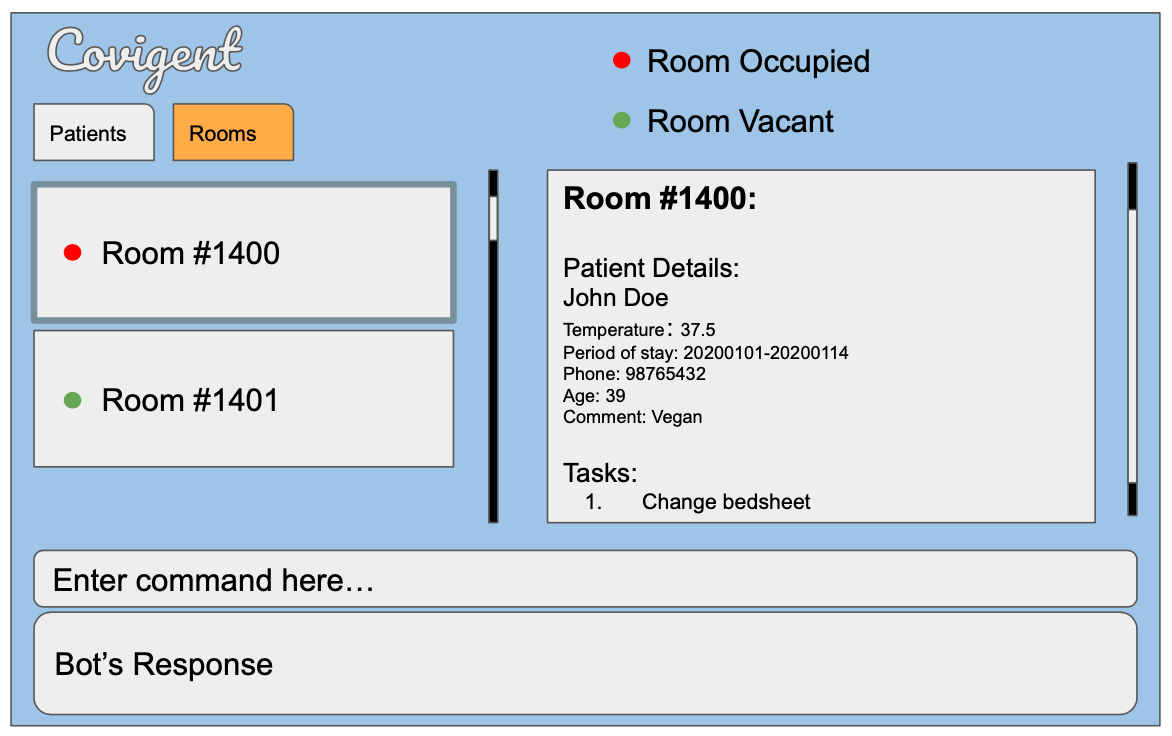
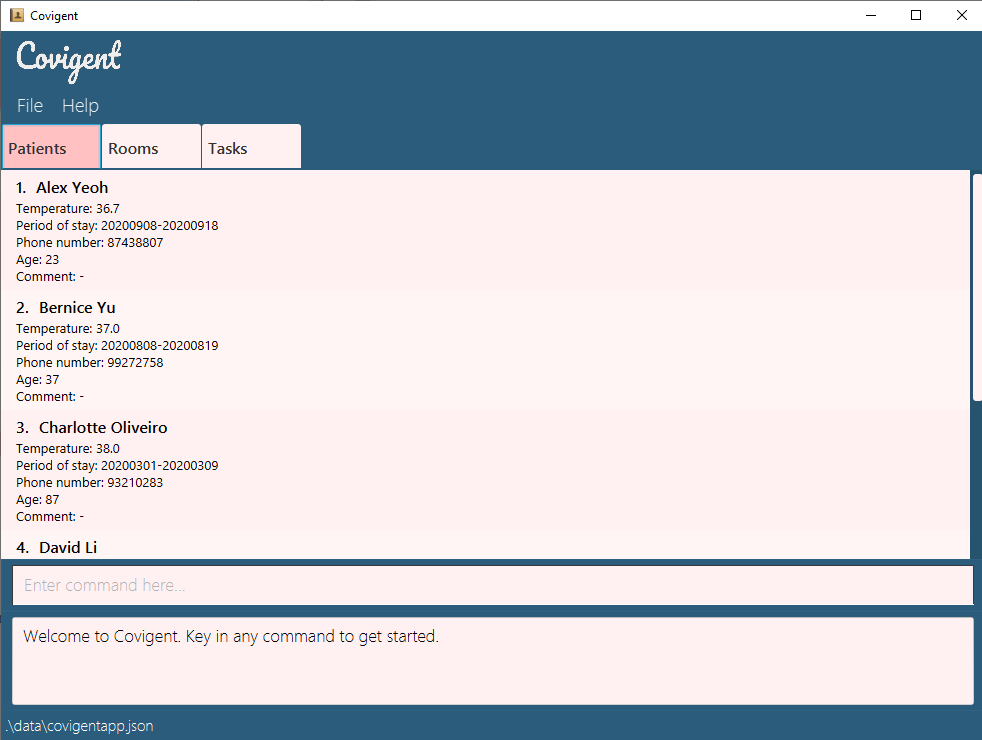
Change Ui image

diff --git a/docs/UserGuide.md b/docs/UserGuide.md
@@ -14,7 +14,7 @@ title: User Guide
     5.2. [Patients](#52-patients)<br>
         5.2.1. [Add a Patient: `addpatient`](#521-add-a-patient-addpatient)<br>
         5.2.2  [Delete a patient: `deletepatient`](#522-delete-a-patient-deletepatient)<br>
-        5.2.3  [Edit Patient Details: `editpatient`](#523-edit-a-patient-editpatient)<br>
+        5.2.3  [Edit Patient Details: `editpatient`](#523-edit-patient-details-editpatient)<br>
         5.2.4  [Search information: `searchpatient`](#524-search-information-searchpatient)<br>
         5.2.5  [List all Patients: `listpatient`](#525-list-all-patients-listpatient)<br>
         5.2.6  [Allocate a Patient to a Room: `editroom`](#526-allocate-a-patient-to-a-room-editroom)<br>
@@ -42,7 +42,10 @@ title: User Guide
 
 ## 1. Introduction
 
-Covigent is a desktop app for managing information of quarantined individuals and the tasks to be done by staff of the quarantine facility. It is optimized for use via a Command Line Interface (CLI) while still having the benefits of a Graphical User Interface (GUI). If you type fast, Covigent can improve your efficiency in managing your patients and tasks instead of using traditional GUI apps.
+Covigent (CG) is a desktop app for managing information of quarantined individuals and the tasks to be done by staff of the quarantine facilities. It is optimized for use via a Command Line Interface (CLI) while retaining the benefits of a Graphical User Interface (GUI). If you can type quickly, CG can improve your efficiency in managing your patients and tasks instead of using traditional GUI apps.
+
+![Ui](images/Ui.png)
+*Figure 1. The graphical User Interface for Covigent*
 
 --------------------------------------------------------------------------------------------------------------------
 
@@ -124,9 +127,9 @@ Example:
 * `deletepatient Mary Doe` Deletes the patient record of Mary Doe from the application.
 
 
-#### 5.2.3 Edit a patient: `editpatient`
+#### 5.2.3 Edit Patient Details: `editpatient`
 
-Edits an existing patient in the application.
+Edits an existing patient's details in the application.
 
 Format: `editpatient NAME [n/NAME] [t/TEMPERATURE] [d/PERIOD_OF_STAY] [p/PHONE_NUMBER] [a/AGE] [c/COMMENT]`
 
@@ -136,6 +139,8 @@ Format: `editpatient NAME [n/NAME] [t/TEMPERATURE] [d/PERIOD_OF_STAY] [p/PHONE_N
 * `NAME` is case-insensitive.
 * `TEMPERATURE` must be to 1 decimal place (e.g. 37.0 instead of 37).
 * `PERIOD_OF_STAY` is in the format `YYYYMMDD-YYYYMMDD`.
+* `PHONE_NUMBER` consists of only 8 digits (e.g. 84321234).
+* `AGE` should be a positive integer between 0 to 119.
 
 Examples:
 *  `editpatient john doe p/91234567` Edits the phone number of john doe to be `91234567`.
